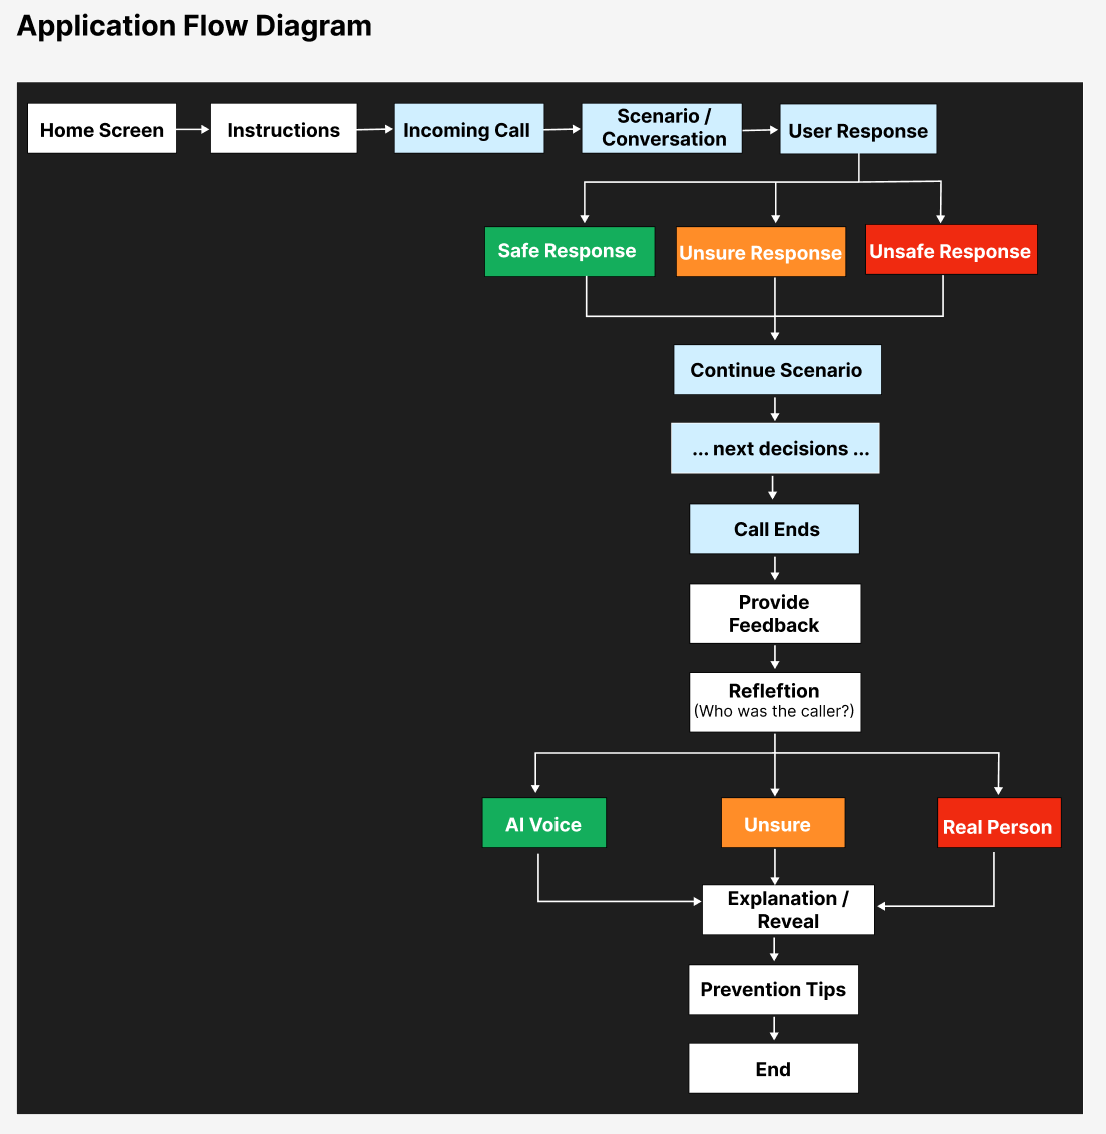
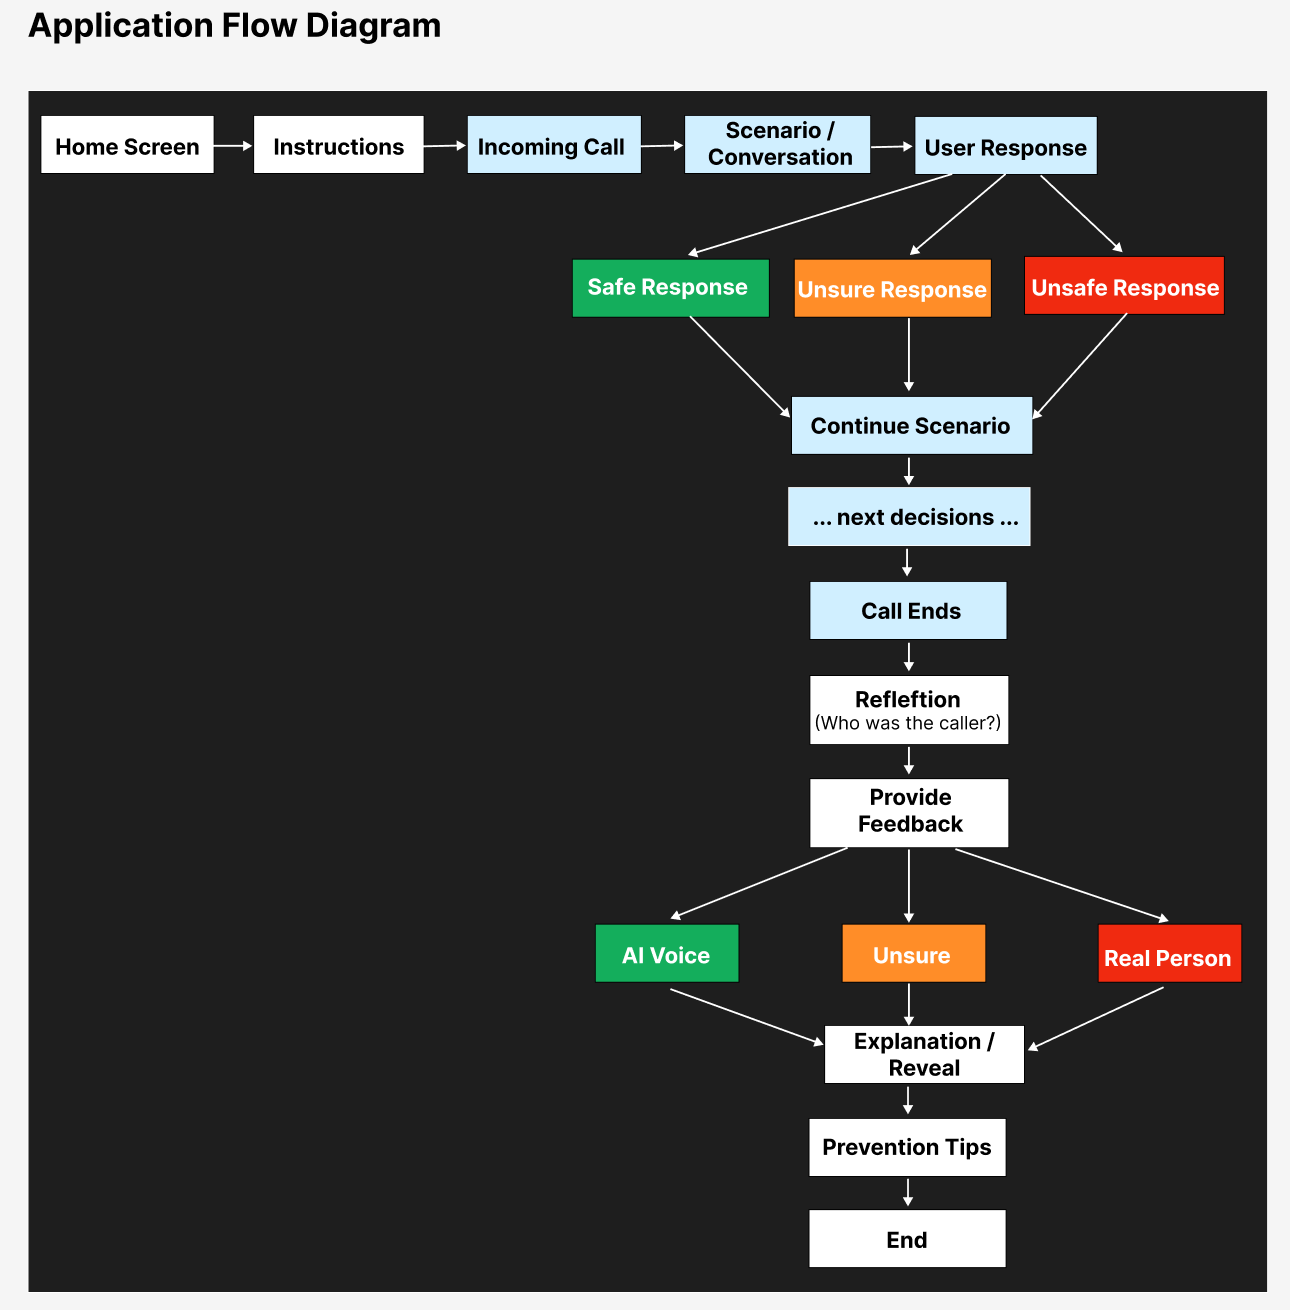
Modify docs/

Changed region(s): [[0.0, 0.0617, 0.9837, 0.9877], [0.0, 0.0, 0.3382, 0.0309]]

diff --git a/docs/application-flow.md b/docs/application-flow.md
@@ -34,21 +34,21 @@ The selected response leads to the corresponding response path. The application 
 
 After the final decision, the simulated call ends and the user proceeds to the feedback and reflection activities.
 
-**Feedback**
-
-The application provides feedback about the user's responses and explains relevant aspects of the scam scenario.
-
 **Reflection**
 
-The user is asked to consider whether the caller could be an AI impersonation scam. The reflection question is presented with three response options.
+The user is asked to consider whether the caller could be an AI impersonation scam. The reflection question is presented with three response options:
 
-**Yes / Not Sure / No**
+`Yes / Not Sure / No`
 
 The user selects **Yes**, **Not sure**, or **No** to indicate whether they think the caller was an AI impersonation scam. Each selection produces corresponding feedback and audio.
 
 **Explanation / Reveal**
 
 The application reveals that the caller was an AI impersonation scam and explains the correct answer. It highlights relevant signs or behaviours that the user should consider in a similar situation.
+
+**Feedback**
+
+The application provides feedback about the user's responses and explains relevant aspects of the scam scenario.
 
 **Prevention Tips**
 
